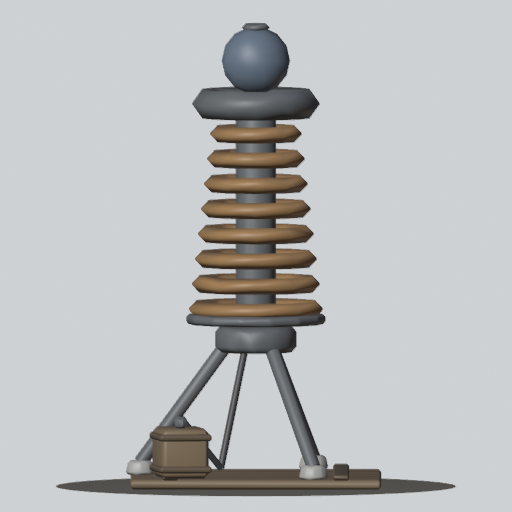
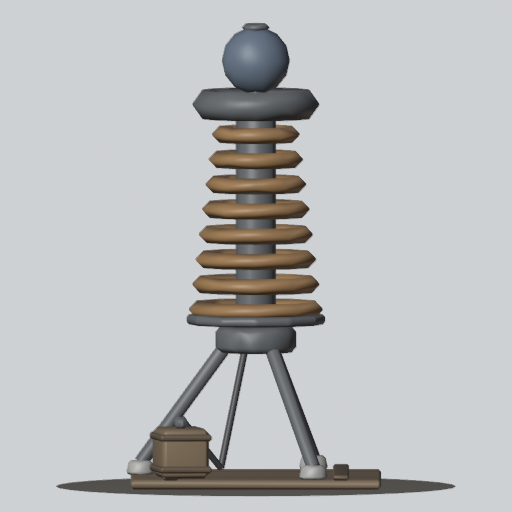
art: Storm Coil (COIL) bolder upgrades - S1 twin coil + arcing ring, S2 third coil, glowing arcs and big glowing ball (#443)

diff --git a/tools/art/models/tower/_coil.py b/tools/art/models/tower/_coil.py
@@ -4,10 +4,12 @@ base (y 0) in Roblox studs; front = -Z (_kit conventions).
 
 Stage 0 (tiers 0-2): plank pad, tripod with insulator feet, the coil (copper rings), the
                      storm-ring, the spark ball, a cable to a battery crate.
-Stage 1 (tier 3):    a taller coil with a second storm-ring, porcelain insulators on the legs,
-                     three lightning-rod spikes round the ring, a cable drum.
-Stage 2 (tier 5):    brass bands and a brass crown on the column, a glowing spark ball, glowing
-                     arc crystals on the rods and a glowing charge gauge on the battery.
+Stage 1 (tier 3):    TWIN COILS - the main coil grows taller with a wide arcing ring (three
+                     lightning rods) round it, and a second, smaller coil tower stands at the
+                     back-left with its own spark ball, cabled to the hub.
+Stage 2 (tier 5):    a THIRD coil at the front-right, a big glowing spark ball in a brass crown,
+                     brass rings and flanges, and glowing lightning arcs jumping from both side
+                     coils to the main column.
 """
 
 import importlib.util
@@ -27,86 +29,113 @@ HUB = 1.45  # tripod hub height
 LEG_ANGLES = (-90, 30, 150)  # front, back-right-ish (kept low), back-left
 
 
+def side_coil(k, cx, cz, h, stage):
+    """A smaller coil tower: a copper drum wound with dark bands, a toroid and a spark ball."""
+    k.add("dark", K.cyl((cx, 0.1, cz), 0.38, 0.2, 8, bevel=0))
+    k.add("body", K.cyl((cx, 0.2 + (h - 0.2) / 2, cz), 0.3, h - 0.2, 10, top=0.7, bevel=0))
+    k.add("dark", *[K.cyl((cx, 0.6 + i * (h - 0.95) / 2, cz), 0.33 - 0.03 * i, 0.09, 10, top=0.95, bevel=0)
+                    for i in range(3)])
+    k.add("metal", K.ring((cx, h + 0.02, cz), 0.25, 0.08, 8, 3), K.rod((cx, h, cz), (cx, h + 0.15, cz), 0.06, 6))
+    k.add("brass" if stage >= 2 else "metal", K.cyl((cx, 0.24, cz), 0.42, 0.06, 10, bevel=0))
+    k.add("glow" if stage >= 2 else "spark", K.ell((cx, h + 0.3, cz), (0.21, 0.21, 0.21), 8, 5), piece="ball")
+    return (cx, h + 0.3, cz)
+
+
+def zigzag(a, b, n=4, amp=0.16):
+    """A lightning bolt from a to b: a jagged chain of thin rods."""
+    pts = [a]
+    for i in range(1, n):
+        t = i / n
+        p = K.along(a, b, t)
+        s = amp if i % 2 else -amp
+        pts.append((p[0] + s * 0.6, p[1] + s, p[2] - s * 0.6))
+    pts.append(b)
+    return [K.rod(pts[i], pts[i + 1], 0.065, 5) for i in range(n)]
+
+
 def build(lp, stage):
     k = K.Kit(lp)
-    top = 3.65 if stage == 0 else 3.85  # top of the coil
-    ball_y = top + 0.58
+    lean = stage >= 1  # the upgrades spend their triangles on big shapes: plain edges on the small base parts
+    top = (3.65, 3.95, 3.8)[stage]  # top of the coil
+    ball_r = (0.34, 0.34, 0.42)[stage]
+    ball_y = top + 0.3 + ball_r * 0.85
 
     # plank pad under the tripod
-    k.add("wood", *[K.rbox((x, 0.05, 0.0), (0.42, 0.1, 2.5), bevel=0.03) for x in (-0.88, -0.44, 0.0, 0.44, 0.88)])
-    k.add("dark", *[K.rbox((0, 0.12, z), (2.2, 0.06, 0.16), bevel=0.02) for z in (-0.85, 0.85)])
+    k.add("wood", *[K.rbox((x, 0.05, 0.0), (0.42, 0.1, 2.5), bevel=0 if lean else 0.03) for x in (-0.88, -0.44, 0.0, 0.44, 0.88)])
+    k.add("dark", *[K.rbox((0, 0.12, z), (2.2, 0.06, 0.16), bevel=0 if lean else 0.02) for z in (-0.85, 0.85)])
 
     # tripod legs from the hub to insulator feet
     metal, porcelain = [], []
-    feet = []
     for a in LEG_ANGLES:
         fx, fz = math.cos(math.radians(a)) * 1.15, math.sin(math.radians(a)) * 1.15
-        feet.append((fx, fz))
-        metal.append(K.rod((fx, 0.22, fz), (fx * 0.22, HUB, fz * 0.22), 0.07, 8))
-        porcelain.append(K.cyl((fx, 0.17, fz), 0.16, 0.14, 10, top=0.8))
-        if stage >= 1:  # porcelain insulator stack on each leg
-            m = K.along((fx, 0.22, fz), (fx * 0.22, HUB, fz * 0.22), 0.45)
-            porcelain.append(K.cyl(m, 0.13, 0.24, 8, top=0.7, bevel=0.04))
-    metal.append(K.cyl((0, HUB, 0), 0.42, 0.26, 12, bevel=0.06))  # hub
-    metal.append(K.rod((0, HUB, 0), (0, top + 0.1, 0), 0.2, 12))  # the column
+        metal.append(K.rod((fx, 0.22, fz), (fx * 0.22, HUB, fz * 0.22), 0.07 if stage == 0 else 0.09, 8))
+        porcelain.append(K.cyl((fx, 0.17, fz), 0.16, 0.14, 8, top=0.8, bevel=0 if lean else 0.03))
+    metal.append(K.cyl((0, HUB, 0), 0.42, 0.26, 12, bevel=0 if lean else 0.06))  # hub
+    metal.append(K.rod((0, HUB, 0), (0, top + 0.1, 0), 0.2 if stage == 0 else 0.24, 10))  # the column
     k.add("metal", *metal)
     k.add("porcelain", *porcelain)
 
     # the copper coil: tight rings up the column, narrowing toward the top
     n = 8
+    r0 = 0.62 if stage == 0 else 0.7
     coil = []
     for i in range(n):
         t = i / (n - 1)
         y = HUB + 0.3 + t * (top - HUB - 0.45)
-        coil.append(K.ring((0, y, 0), 0.62 - 0.22 * t, 0.08, 10, 4))
-    flange = K.cyl((0, HUB + 0.2, 0), 0.7, 0.1, 14, bevel=0.03)  # coil base flange
+        coil.append(K.ring((0, y, 0), r0 - 0.24 * t, 0.08 if stage == 0 else 0.09, 8 if lean else 10, 3 if lean else 4))
+    flange = K.cyl((0, HUB + 0.2, 0), r0 + 0.08, 0.1, 12, bevel=0 if lean else 0.03)  # coil base flange
     k.add("body", *coil)
     k.add("brass" if stage >= 2 else "metal", flange)
 
     # storm-ring (toroid) at the top, the spark ball above it; the muzzle cap on the ball
-    rings = [K.ring((0, top + 0.15, 0), 0.5, 0.15, 14, 5)]
-    if stage >= 1:
-        k.add("brass" if stage >= 2 else "metal", K.ring((0, top - 0.55, 0), 0.72, 0.08, 14, 4))
-    k.add("metal", *rings, K.rod((0, top + 0.1, 0), (0, ball_y - 0.2, 0), 0.08, 8))
-    k.add("glow" if stage >= 2 else "spark", K.ell((0, ball_y, 0), (0.34, 0.34, 0.34), 12, 7), piece="ball")
-    k.add("metal", K.ring((0, ball_y + 0.33, 0), 0.1, 0.04, 8, 4), piece="muzzle", role="muzzle")
+    tor = K.ring((0, top + 0.15, 0), 0.5 if stage == 0 else 0.56, 0.15 if stage == 0 else 0.17, 14, 5 if stage == 0 else 4)
+    k.add("metal", tor, K.rod((0, top + 0.1, 0), (0, ball_y - 0.2, 0), 0.08, 8))
+    k.add("glow" if stage >= 2 else "spark", K.ell((0, ball_y, 0), (ball_r,) * 3, 10 if lean else 12, 6 if lean else 7), piece="ball")
+    k.add("metal", K.ring((0, ball_y + ball_r - 0.01, 0), 0.1, 0.04, 8, 4), piece="muzzle", role="muzzle")
 
     # battery crate at the front-left, cable up to the hub
     bx, bz = -0.85, -0.75
     k.add("wood", K.rbox((bx, 0.36, bz), (0.62, 0.5, 0.48), bevel=0.05, rot=(0, 10, 0)))
     k.add("dark", *[K.rbox((bx, y, bz), (0.66, 0.07, 0.52), bevel=0.02, rot=(0, 10, 0)) for y in (0.2, 0.52)])
-    k.add("metal", *[K.cyl((bx + dx, 0.66, bz), 0.07, 0.1, 8) for dx in (-0.15, 0.15)])  # terminals
+    k.add("metal", *[K.cyl((bx + dx, 0.66, bz), 0.07, 0.1, 8, bevel=0 if lean else 0.03) for dx in (-0.15, 0.15)])  # terminals
     cable = [K.rod((bx + 0.15, 0.7, bz), (-0.35, 0.18, -0.35), 0.035, 6),
              K.rod((-0.35, 0.18, -0.35), (-0.1, HUB - 0.05, -0.1), 0.035, 6)]
-    k.add("cable", *cable)
 
-    brass = []
     if stage >= 1:
-        # lightning-rod spikes on the lower ring
-        rods = []
+        # the wide arcing ring on three spokes, three lightning rods standing up from it
+        ry, rr = top - 0.7, 1.12
+        trim = "brass" if stage >= 2 else "metal"
+        k.add(trim, K.ring((0, ry, 0), rr, 0.07, 16, 3))
+        spokes, rods = [], []
         for a in (-90, 30, 150):
-            cx, cz = math.cos(math.radians(a)) * 0.72, math.sin(math.radians(a)) * 0.72
-            y0 = top - 0.55
-            rods.append(K.rod((cx, y0, cz), (cx * 1.3, y0 + 0.7, cz * 1.3), 0.045, 6, top=0.25))
-        k.add("metal", *rods)
-        # a cable drum at the back-left
-        k.add("wood", *[K.cyl((-0.95, 0.42, 0.75 + dz), 0.36, 0.06, 10, rot=(90, 0, 0)) for dz in (-0.2, 0.2)])
-        k.add("cable", K.cyl((-0.95, 0.42, 0.75), 0.24, 0.36, 10, rot=(90, 0, 0)))
-        k.add("dark", K.rbox((-0.95, 0.07, 0.75), (0.5, 0.14, 0.6), bevel=0.04))
-
-    if stage >= 2:
-        brass += [K.ring((0, y, 0), 0.24, 0.05, 12, 4) for y in (HUB + 0.12, top + 0.02)]
-        brass += [K.rod((math.cos(math.radians(a)) * 0.38, top + 0.2, math.sin(math.radians(a)) * 0.38),
-                        (math.cos(math.radians(a)) * 0.2, ball_y - 0.1, math.sin(math.radians(a)) * 0.2), 0.035, 6)
-                  for a in (0, 120, 240)]  # brass crown claws round the ball
-        brass.append(K.cyl((-0.85, 0.66, -0.98), 0.12, 0.05, 10, rot=(90, 0, 0)))  # gauge bezel
-        k.add("glow", K.cyl((-0.85, 0.66, -1.0), 0.09, 0.03, 10, rot=(90, 0, 0)), piece="gauge")
-        crystals = []
-        for a in (-90, 30, 150):
-            cx, cz = math.cos(math.radians(a)) * 0.72 * 1.3, math.sin(math.radians(a)) * 0.72 * 1.3
-            crystals.append(K.ell((cx, top + 0.18, cz), (0.08, 0.13, 0.08), 6, 4))
-        k.add("glow", *crystals, piece="arcs")
-        k.add("brass", *brass)
+            ca, sa = math.cos(math.radians(a)), math.sin(math.radians(a))
+            spokes.append(K.rod((ca * 0.3, ry, sa * 0.3), (ca * rr, ry, sa * rr), 0.04, 5))
+            rods.append(K.rod((ca * rr, ry, sa * rr), (ca * rr * 1.06, ry + 0.95, sa * rr * 1.06), 0.06, 6, top=0.2))
+        k.add("metal", *spokes, *rods)
+        # the twin coil at the back-left, cabled to the hub
+        sb = side_coil(k, -0.92, 0.88, 2.55 if stage == 1 else 2.85, stage)
+        cable.append(K.rod((-0.92, 0.3, 0.6), (-0.15, HUB - 0.05, 0.15), 0.04, 6))
+        balls = [sb]
+        if stage >= 2:
+            sf = side_coil(k, 0.95, -0.92, 2.5, stage)
+            cable.append(K.rod((0.92, 0.3, -0.62), (0.15, HUB - 0.05, -0.15), 0.04, 6))
+            balls.append(sf)
+            # lightning arcs from each side coil's ball to the main column
+            arcs = []
+            for b in balls:
+                arcs += zigzag(b, (0.0, top - 0.25, 0.0), 4, 0.17)
+            # glowing tips on the three lightning rods
+            for a in (-90, 30, 150):
+                ca, sa = math.cos(math.radians(a)), math.sin(math.radians(a))
+                arcs.append(K.ell((ca * rr * 1.06, ry + 1.0, sa * rr * 1.06), (0.1, 0.16, 0.1), 6, 4))
+            k.add("glow", *arcs, piece="arcs")
+            # the brass crown: a band round the column top and claws round the big ball
+            brass = [K.cyl((0, top + 0.02, 0), 0.32, 0.12, 10, bevel=0)]
+            brass += [K.rod((math.cos(math.radians(a)) * 0.45, top + 0.2, math.sin(math.radians(a)) * 0.45),
+                            (math.cos(math.radians(a)) * 0.3, ball_y + 0.05, math.sin(math.radians(a)) * 0.3), 0.045, 6)
+                      for a in (0, 90, 180, 270)]
+            k.add("brass", *brass)
+    k.add("cable", *cable)
 
     colors = {
         "body": COPPER, "metal": K.METAL, "spark": SPARK, "wood": K.WOOD, "dark": K.DARK,
